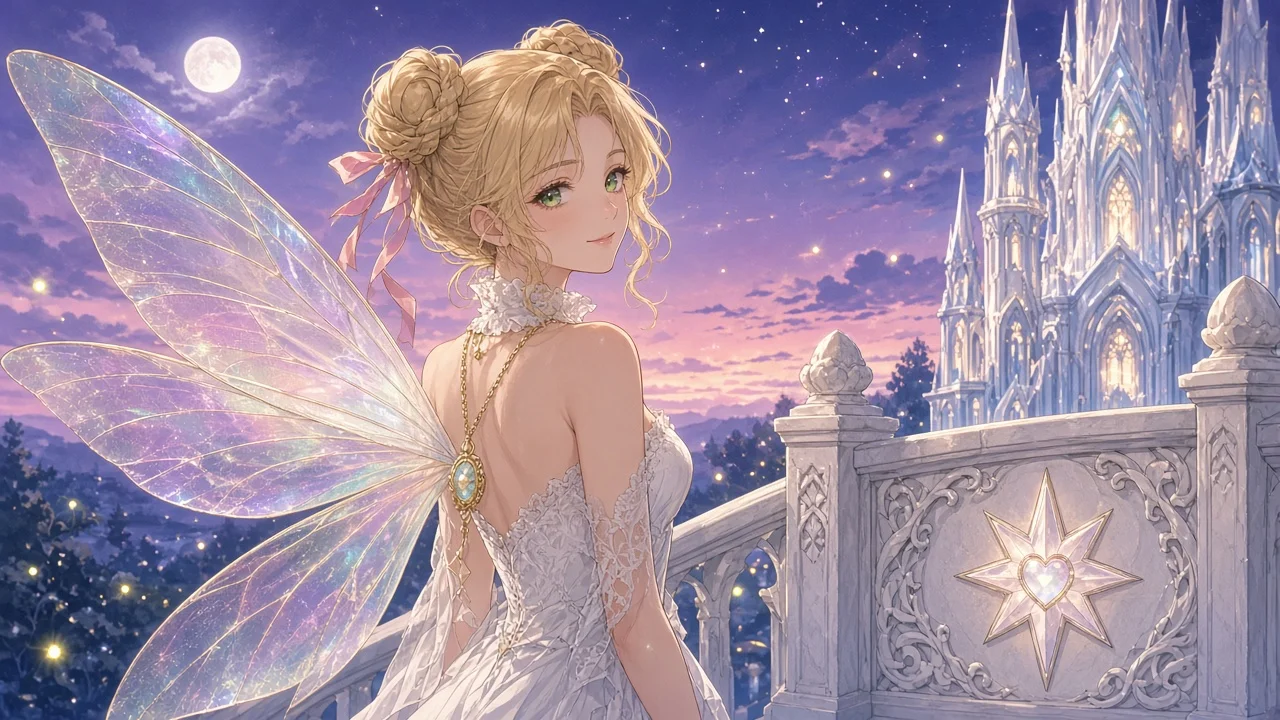
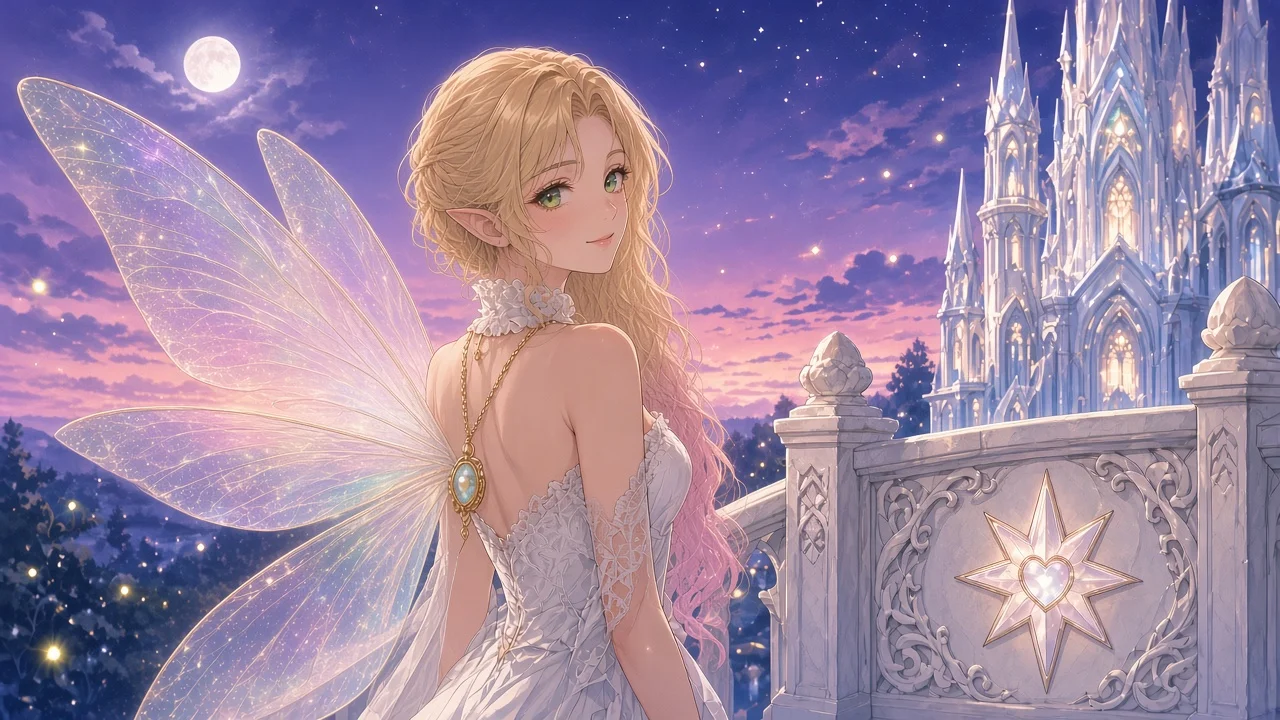
Spire: repaint the fairy-wings still
Swap in the canon pass of Loreli on the balcony, with the pointed ear and pink-tipped curls called out in the gallery alt text.

diff --git a/spire/index.html b/spire/index.html
@@ -315,7 +315,7 @@
         </figure>
         <figure class="still">
           <button type="button" data-full="/spire/assets/loreli-fairy-wings.webp" aria-label="Open larger: Fairy wings">
-            <img src="/spire/assets/loreli-fairy-wings.webp" alt="Loreli on the Spire balcony at twilight, her iridescent fairy wings catching the moonlight, the Sovereign Star carved in the railing" loading="lazy" width="1024" height="576">
+            <img src="/spire/assets/loreli-fairy-wings.webp" alt="Loreli on the Spire balcony at twilight, pointed ear and pink-tipped curls, her iridescent fairy wings catching the moonlight, the Sovereign Star carved in the railing" loading="lazy" width="1024" height="576">
           </button>
           <figcaption>Fairy wings</figcaption>
         </figure>
